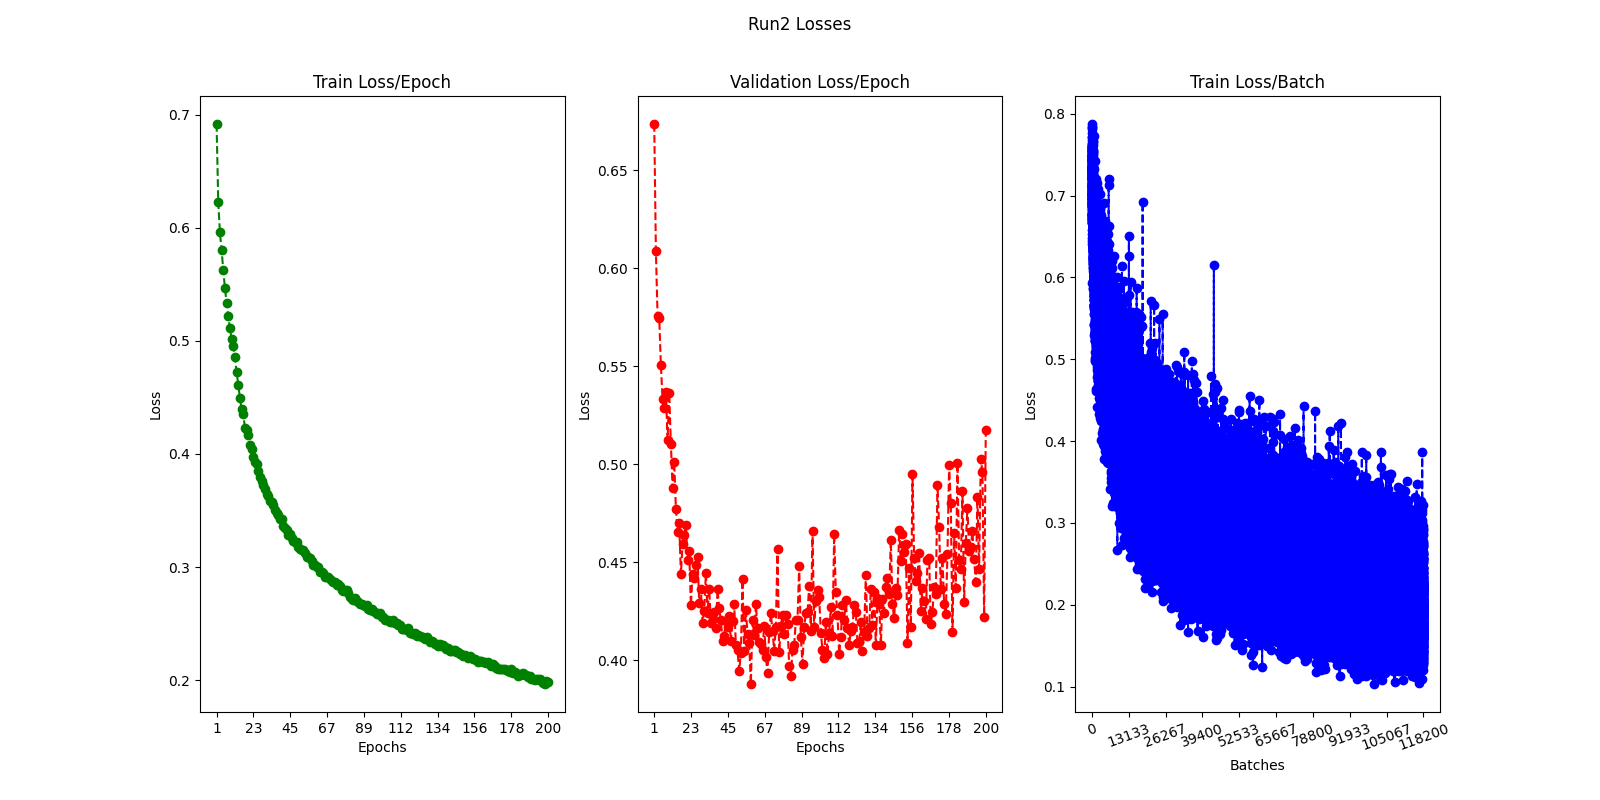
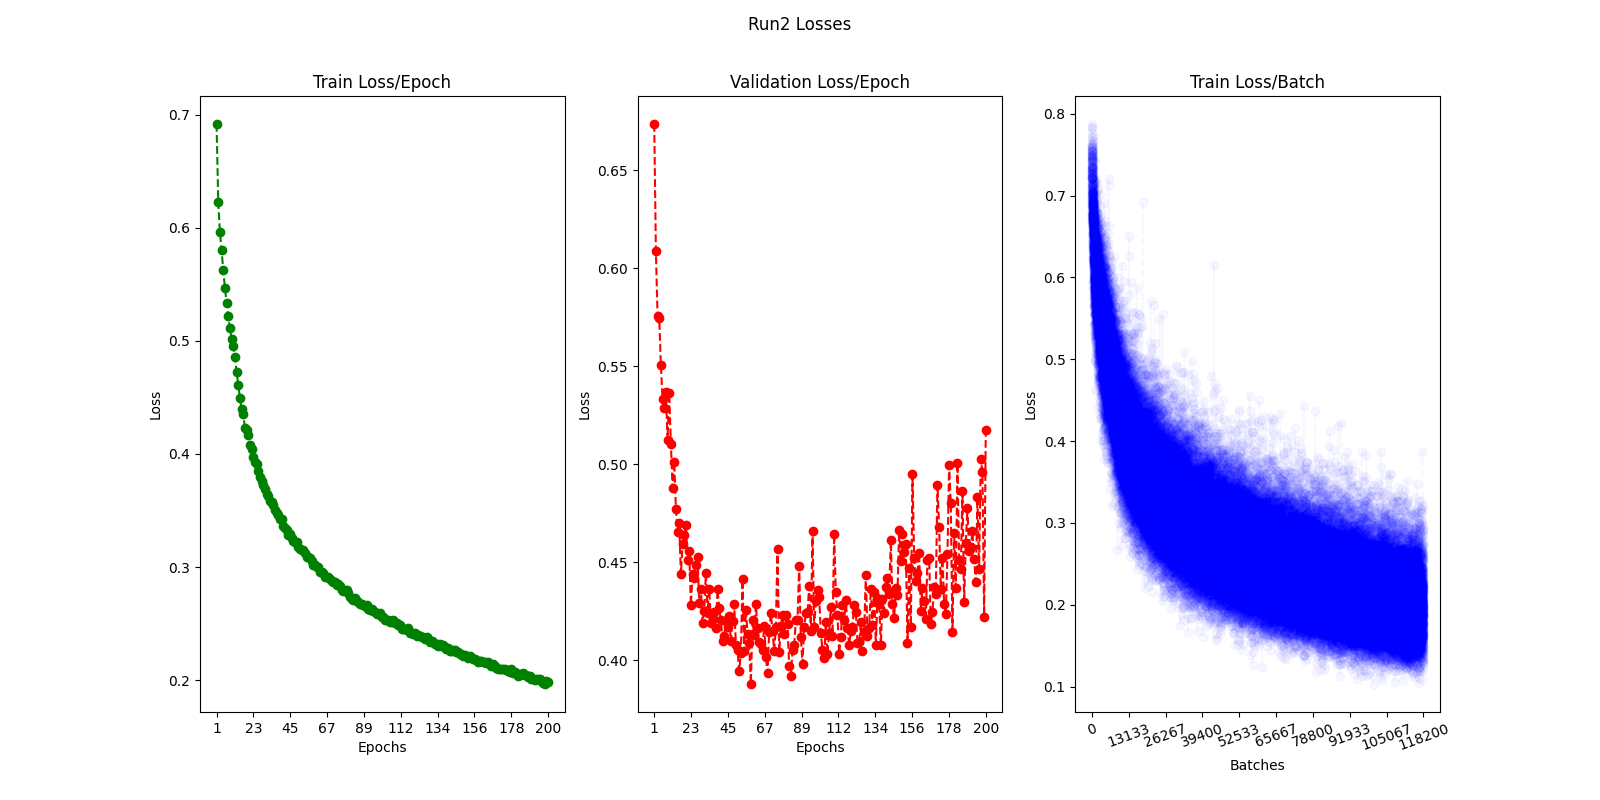
added alpha value in the batch loss plot to improve readability

Changed region(s): [[0.6562, 0.1562, 0.9062, 0.875]]

diff --git a/plot_logs.py b/plot_logs.py
@@ -88,7 +88,7 @@ def plot_logs(run_name: str):
 
     ax3.plot(x_batch, train_batch_loss, 
              color = 'b', linestyle = 'dashed', 
-             marker = 'o')
+             marker = 'o', alpha=0.03)
     ax3.set_title("Train Loss/Batch")
     ax3.set(xlabel="Batches", ylabel="Loss")
     ax3.set_xticks(ticks_batch)
